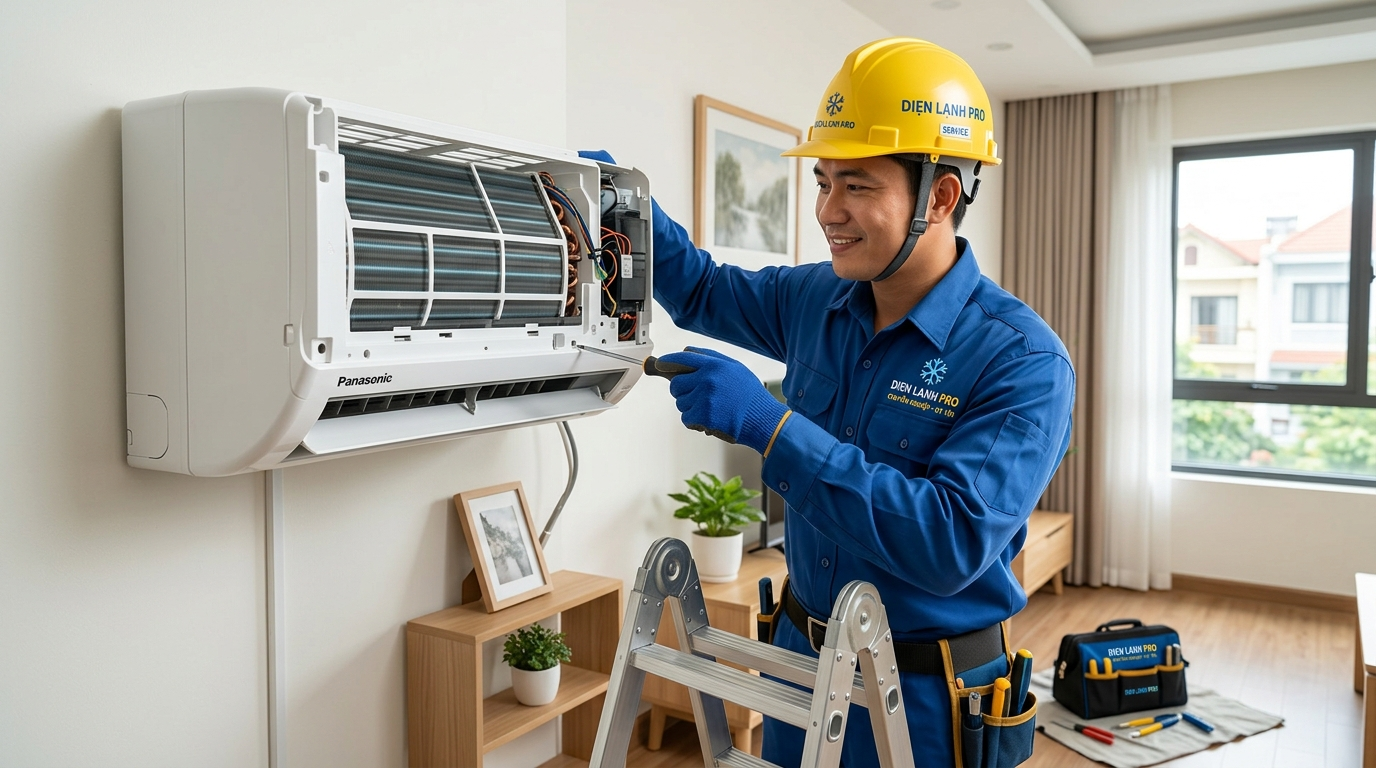
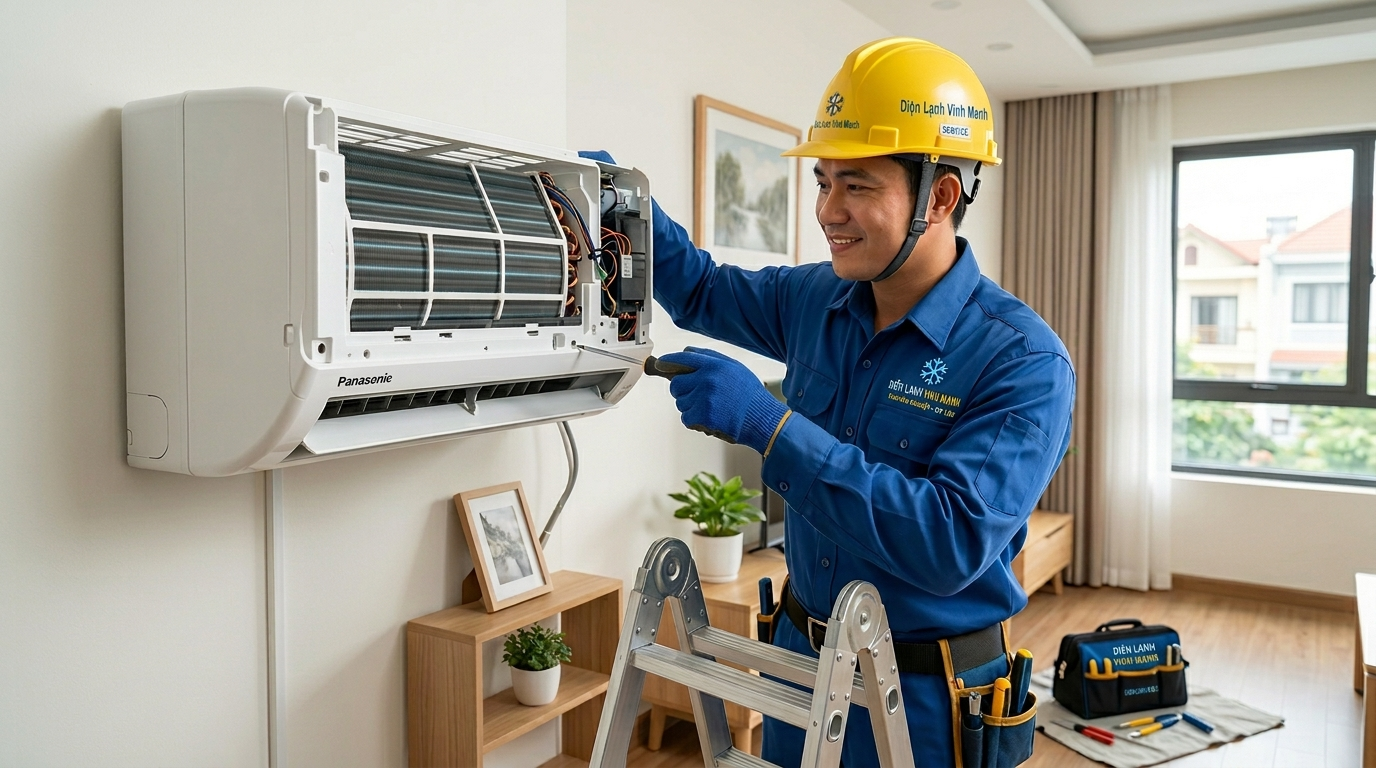
123

diff --git a/index.html b/index.html
@@ -4,8 +4,8 @@
     <meta charset="UTF-8">
     <meta name="viewport" content="width=device-width, initial-scale=1.0">
     <meta name="description" content="Dịch vụ sửa chữa, bảo trì và lắp đặt điều hòa chuyên nghiệp tại Việt Nam. Uy tín, báo giá minh bạch, hỗ trợ 24/7.">
-    <meta name="keywords" content="sửa điều hòa, lắp đặt điều hòa, bảo trì máy lạnh, điện lạnh pro, vệ sinh điều hòa">
-    <title>Điện Lạnh Pro - Dịch Vụ Điều Hòa Tận Tâm & Chuyên Nghiệp</title>
+    <meta name="keywords" content="sửa điều hòa, lắp đặt điều hòa, bảo trì máy lạnh, điện lạnh vững mạnh, vệ sinh điều hòa">
+    <title>Điện Lạnh Vững Mạnh - Dịch Vụ Điều Hòa Tận Tâm & Chuyên Nghiệp</title>
     <script src="https://cdn.tailwindcss.com"></script>
     <script src="https://unpkg.com/lucide@latest"></script>
     <style>
@@ -76,7 +76,7 @@
         <div class="container mx-auto px-4 py-3 flex justify-between items-center">
             <div class="flex items-center gap-2">
                 <i data-lucide="snowflake" class="text-blue-600 w-8 h-8"></i>
-                <span class="text-2xl font-bold text-blue-900 tracking-tight">ĐIỆN LẠNH<span class="text-blue-500">PRO</span></span>
+                <span class="text-2xl font-bold text-blue-900 tracking-tight uppercase">ĐIỆN LẠNH<span class="text-blue-500 ml-1">VỮNG MẠNH</span></span>
             </div>
             
             <div class="hidden md:flex gap-8 font-medium">
@@ -128,7 +128,7 @@
             <div class="lg:w-1/2 relative">
                 <div class="bg-blue-400/20 rounded-3xl p-4 backdrop-blur-sm border border-white/20 shadow-2xl relative overflow-hidden min-h-[400px] flex items-center justify-center">
                     <img src="https://raw.githubusercontent.com/ducnt-fithou/dienlanhpro/d87a30e441a93b4b3ff791abb3452d00abb521a9/img/banner.jpeg" 
-                         alt="Kỹ thuật viên Điện Lạnh Pro chuyên nghiệp đang sửa điều hòa" 
+                         alt="Kỹ thuật viên Điện Lạnh Vững Mạnh chuyên nghiệp đang sửa điều hòa" 
                          class="rounded-2xl w-full object-cover h-[400px] shadow-2xl transition-opacity duration-700">
                 </div>
             </div>
@@ -206,10 +206,10 @@
             <span class="text-xl md:text-2xl font-black text-slate-700">SAMSUNG</span>
             <span class="text-xl md:text-2xl font-black text-slate-700">LG</span>
             <span class="text-xl md:text-2xl font-bold text-slate-700 tracking-widest">TOSHIBA</span>
-            <span class="text-xl md:text-2xl font-black text-slate-700">SHARP</span>
             <span class="text-xl md:text-2xl font-black text-slate-700">CASPER</span>
             <span class="text-xl md:text-2xl font-black text-slate-700 italic">MIDEA</span>
             <span class="text-xl md:text-2xl font-black text-slate-700">GREE</span>
+            <span class="text-xl md:text-2xl font-black text-slate-700">FUNIKI</span>
         </div>
     </section>
 
@@ -344,10 +344,10 @@
         <div class="container mx-auto px-4">
             <div class="flex items-center justify-center gap-2 mb-6">
                 <i data-lucide="snowflake" class="text-blue-500 w-6 h-6"></i>
-                <span class="text-xl font-bold text-white tracking-tight">ĐIỆN LẠNH<span class="text-blue-500">PRO</span></span>
+                <span class="text-xl font-bold text-white tracking-tight uppercase">ĐIỆN LẠNH<span class="text-blue-500 ml-1">VỮNG MẠNH</span></span>
             </div>
             <p class="text-sm mb-4">Vĩnh Hưng, Hoàng Mai, Hà Nội</p>
-            <p class="text-xs">&copy; 2026 Điện Lạnh Pro. Chuyên sửa chữa & lắp đặt điều hòa toàn quốc.</p>
+            <p class="text-xs">&copy; 2026 Điện Lạnh Vững Mạnh. Chuyên sửa chữa & lắp đặt điều hòa toàn quốc.</p>
         </div>
     </footer>
 
@@ -355,7 +355,7 @@
     <a href="tel:0924101087" class="phone-float bg-green-500 text-white w-14 h-14 rounded-full flex items-center justify-center shadow-2xl hover:scale-110 transition-transform duration-300" title="Gọi ngay cho chúng tôi">
         <i data-lucide="phone" class="w-8 h-8 fill-current"></i>
     </a>
-    <a href="https://zalo.me/0924104087" target="_blank" class="zalo-float bg-white w-14 h-14 rounded-full flex items-center justify-center shadow-2xl hover:scale-110 transition-transform duration-300" title="Chat qua Zalo">
+    <a href="https://zalo.me/0924101087" target="_blank" class="zalo-float bg-white w-14 h-14 rounded-full flex items-center justify-center shadow-2xl hover:scale-110 transition-transform duration-300" title="Chat qua Zalo">
         <img src="https://upload.wikimedia.org/wikipedia/commons/9/91/Icon_of_Zalo.svg" alt="Zalo" class="w-10 h-10">
     </a>
 
